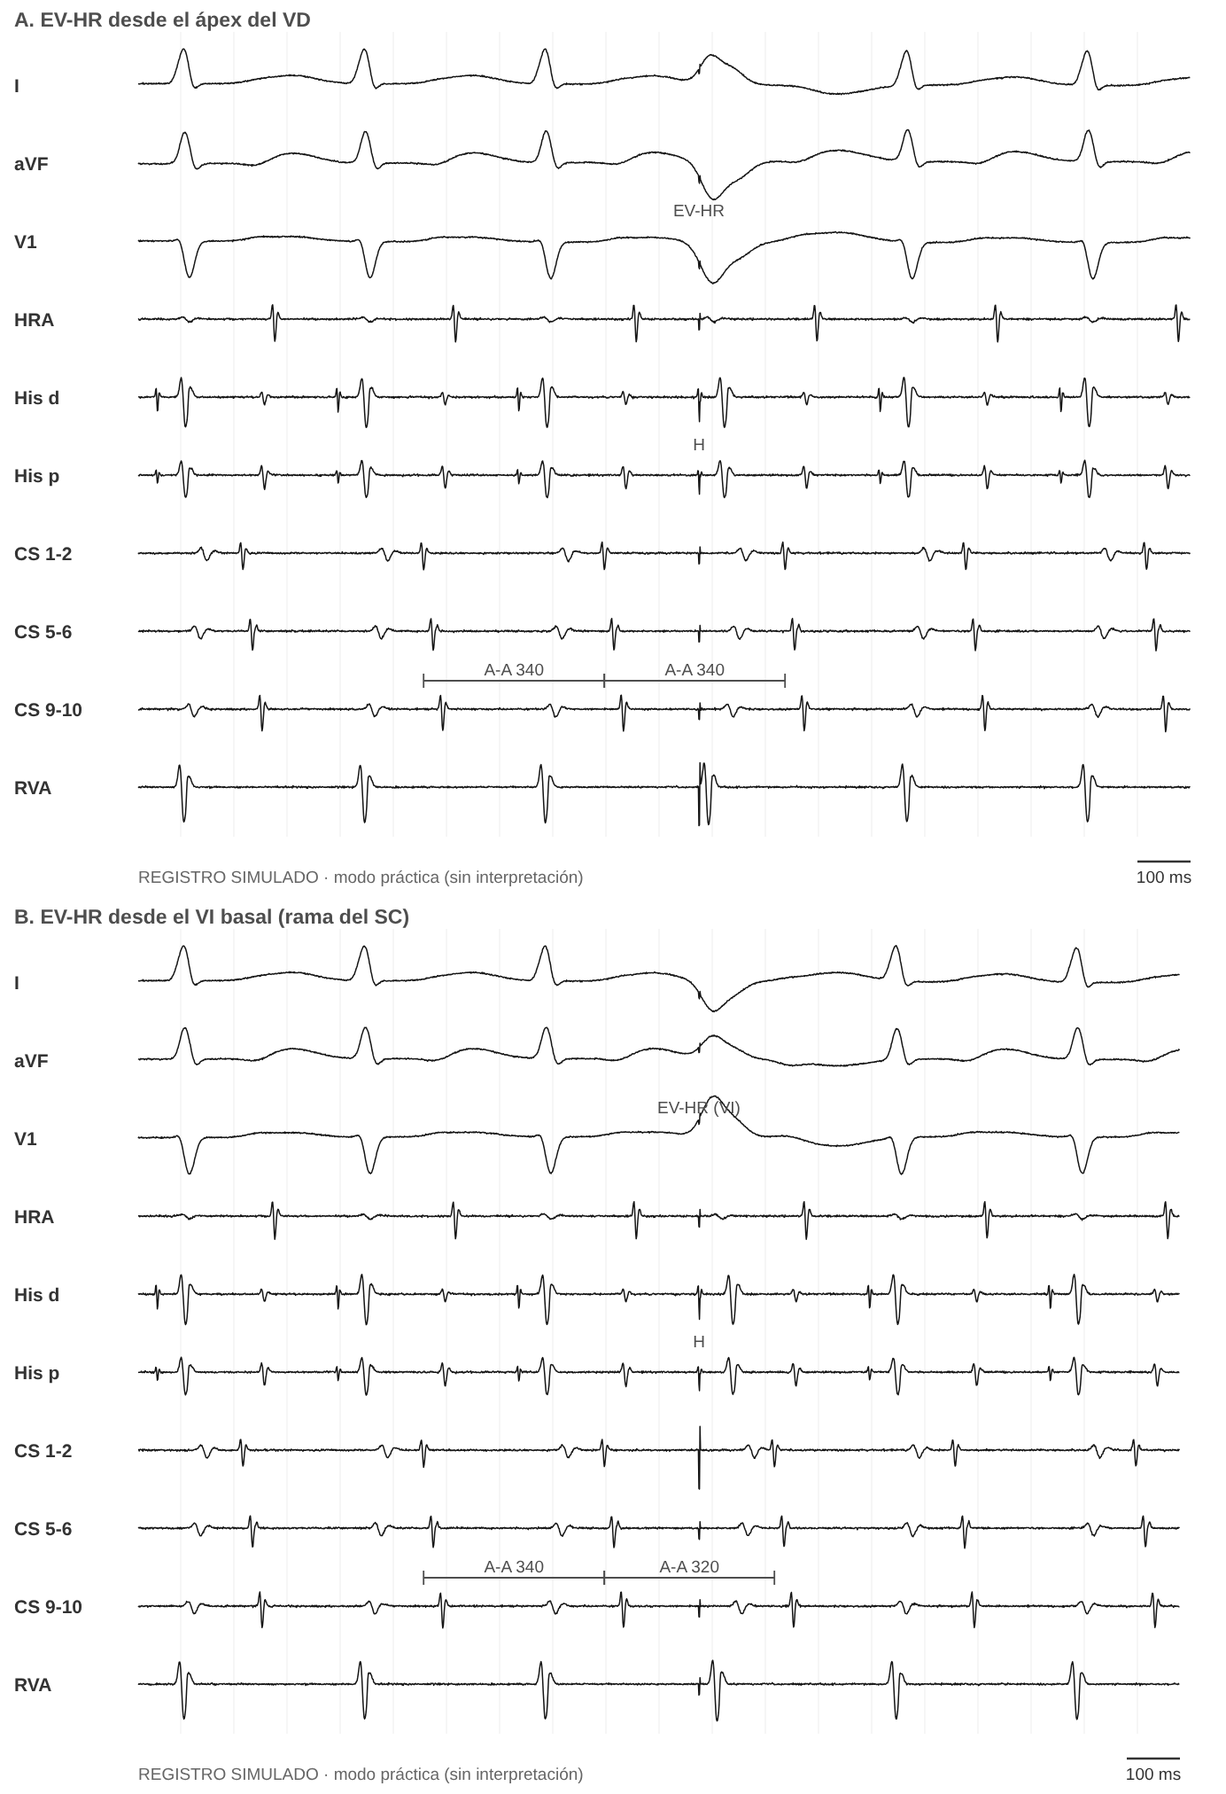
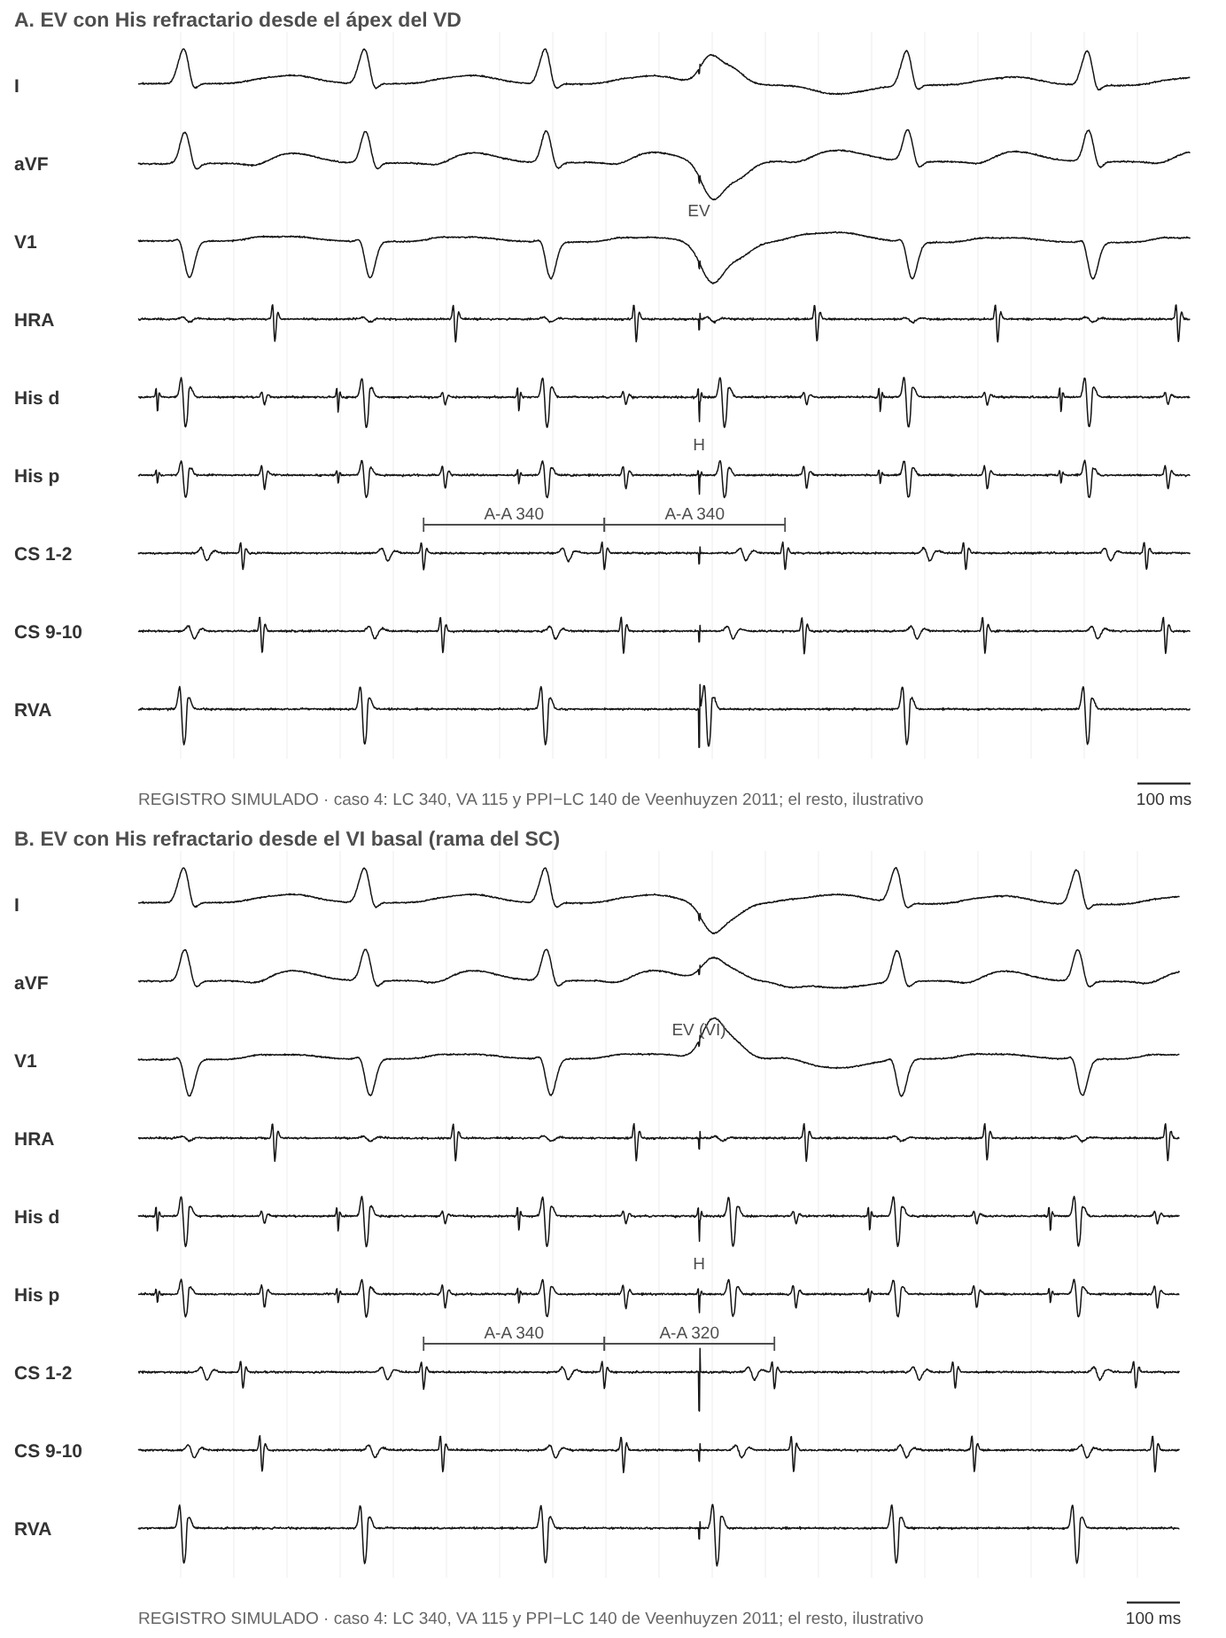
Caso 4 en el formato nuevo: todas las maniobras simuladas, valores durante el análisis y devolución paso a paso
Desde el ápex del VD: PPI−LC 140 y cPPI−LC 120 (Veenhuyzen 2011); el SA−VA pasa a 120
para ser coherente con esos valores. APPV se declara al inicio del script
(se usaba antes de inicializarse al abrir la revisión por el enlace).

Claude-Session: https://claude.ai/code/session_01Pw5rjt62KK5LeJZoEyFiaM

diff --git a/index.html b/index.html
@@ -305,6 +305,7 @@ dialog::backdrop{background:rgba(0,0,0,.45)}
 <dialog id="dlg"><div class="dlg"><div class="dlgh"><h3 id="dlgT"></h3><button class="btn" id="dlgX">Cerrar</button></div><div id="dlgB"></div></div></dialog>
 
 <script>
+const APPV = 150;   // igual al número de CACHE_VERSION de sw.js
 // ===============================================================================================================
 // Referencias. "propia" = artículo del material base; las demás se citan a través de esas revisiones.
 // ===============================================================================================================
@@ -1305,16 +1306,19 @@ const PCASOS = [
       pre: { v: 'Estimulación ventricular en sinusal a 500 y 400 ms.', r: 'SA 140 a 500 y 190 a 400 (decremental), concéntrica: conducción VA por el nodo, sin vía.', u: 'util', img: 'figs/sim/prac/p3_pre.png' } },
     dx: ['ta'], ex: 'La respuesta A-A-V verdadera, la secuencia auricular distinta durante la estimulación ventricular y la persistencia con bloqueo AV por adenosina indican TA. La variación del VA de retorno desde varios sitios (> 14 ms) también la apoya.', refs: ['knight99', 'knight00', 'maruyama07'] },
   { id: 'c4', t: 'TSV con activación excéntrica', p: 'Adolescente de 16 años con TSV. ECG basal sin preexcitación.',
-    ecg: 'figs/sim/casos/c4_ecg.jpg', ecgReal: true, basal: 'figs/sim/casos/c4_basal.png', ind: 'figs/sim/casos/c4_ind.png',
-    h: ['TSV de QRS angosto, LC 340 ms, relación 1:1', 'VA 115 ms; A más precoz en el SC distal (excéntrica)', 'Con bloqueo de rama izquierda funcional, el VA se alarga 35 ms y la LC 30 ms'],
-    m: { vop: { r: 'Respuesta A-V. Desde el ápex no hay fusión.', u: 'util' },
-      medidas: { r: 'Desde el ápex: PPI−LC 140 ms, cPPI−LC 120 ms, SA−VA 75 ms. Valores "límite" por la distancia a la vía.', u: 'trampa' },
-      vopvi: { r: 'Desde el VI basal (rama del SC): QRS de fusión e His ortodrómico; PPI−LC 90, cPPI−LC 30, SA−VA −20 ms.', u: 'clave', img: 'figs/sim/prac/veen11_fusion.png' },
-      ehr: { r: 'Desde el ápex del VD no modifica la A; desde el VI basal la adelanta 20 ms.', u: 'clave', img: 'figs/sim/prac/p4_ehr.png' },
-      parahis: { r: 'Respuesta nodal: la vía está lejos del sitio de estimulación.', u: 'trampa' },
-      pre: { r: 'Conducción VA excéntrica, no decremental, más precoz en el SC distal.', u: 'clave', img: 'figs/sim/prac/p4_pre.png' },
-      ado: { r: 'La TSV termina con una A.' }, aop: { r: 'VA linking presente.' } },
-    dx: ['trav_l'], ex: 'La activación excéntrica y el efecto Coumel (VA que aumenta > 20–30 ms con bloqueo de rama homolateral) ya apuntan a una vía libre izquierda. Desde el ápex del VD los valores salen "límite"; desde el VI basal aparecen la fusión y el His ortodrómico.', refs: ['veen11', 'knight00', 'veen12'] },
+    ecg: 'figs/sim/casos/c4_ecg.jpg', ecgReal: true, basal: 'figs/sim/casos/c4_basal.png', ind: 'figs/sim/casos/c4_ind.png', indt: 'Extraestímulo auricular S1-S2 600-280',
+    h: ['TSV de QRS angosto, LC 340 ms, relación AV 1:1', 'Protocolo: extraestímulo auricular desde la AD alta, S1-S2 600-280'],
+    hk: ['Activación auricular excéntrica, con la A más precoz en el SC 1-2 y VA 115 ms (> 70): excluye la TRNAV típica y apunta a una vía lateral izquierda (o a una TA izquierda).', 'Al inicio, con BRI funcional, el VA se alarga 35 ms (150 vs 115) y la LC 30 ms (370 vs 340): efecto Coumel. La rama bloqueada forma parte del circuito: TRAV por vía libre izquierda.'],
+    m: { vop: { v: 'Estimulando el ápex del VD a 310 ms las A se aceleran a 310 con la misma secuencia excéntrica. Al cortar, el primer electrograma que sigue a la última A es un V (secuencia A-V).', r: 'Respuesta A-V: excluye la TA izquierda que plantea la secuencia excéntrica.', u: 'clave', img: 'figs/sim/prac/p4_vop.png' },
+      pre: { v: 'Estimulación ventricular en sinusal a 500 y 400 ms.', r: 'SA 120 a las dos frecuencias (no decremental), con la A más precoz en el SC 1-2: conducción VA por una vía lateral izquierda.', u: 'clave', img: 'figs/sim/prac/p4_pre.png' },
+      diff: { v: 'Encarrilando a 310 ms: SA 235 desde el ápex y SA 225 desde la base del VD (VA 115). ΔVA (base − ápex) −10 ms.', r: 'ΔVA ≤ 20 ms: TRAV. Aunque los dos sitios están lejos de la vía, la diferencia entre ellos no depende de esa distancia.', u: 'clave', img: 'figs/sim/prac/p4_diff.png' },
+      ehr: { v: 'EV con el His refractario desde el ápex del VD: la A siguiente no cambia (A-A 340). Desde el VI basal (rama del SC): la A siguiente se adelanta 20 ms (A-A 320) con la misma secuencia y la taquicardia sigue.', r: 'Desde el ápex la EV no llega a tiempo a una vía alejada; desde el VI basal, cerca de la vía, adelanta la A con el His refractario: demuestra la vía y que participa en el circuito.', u: 'clave', img: 'figs/sim/prac/p4_ehr.png' },
+      medidas: { v: 'PPI 480 ms con LC 340 (PPI−LC 140). AH 180 en la TSV y 200 en el primer latido de retorno (cPPI−LC 120). SA 235 ms con VA 115 (SA−VA 120).', r: 'Engañosa: desde el ápex del VD los tres valores caen en rango de TRNAV porque la vía lateral izquierda está lejos del sitio de estimulación (el frente tarda en llegar al circuito). Estos cortes se validaron sobre todo con vías septales.', u: 'trampa', img: 'figs/sim/prac/p4_medidas.png' },
+      parahis: { v: 'En sinusal, con captura del His: SA 85 y QRS 95. Solo V: SA 135 y QRS 150. Misma secuencia auricular, concéntrica.', r: 'Engañosa: respuesta nodal porque la vía está lejos del sitio de estimulación; la para-Hisiana solo descarta vías septales.', u: 'trampa', img: 'figs/sim/prac/p4_parahis.png' },
+      aop: { v: 'Estimulando la AD alta a 310 ms los V se aceleran a 310 (V-V 310; en la TSV, 340). Al cortar, el VA del primer latido es 115 ms, igual al de la TSV.', r: 'VA linking: la A de retorno depende del V; excluye la TA.', u: 'util', img: 'figs/sim/prac/p4_aop.png' },
+      ado: { v: 'La taquicardia termina: el último latido es una A que no conduce al V.', r: 'Terminación con una A: excluye la TA, pero no localiza la vía.', u: 'util', img: 'figs/sim/prac/p4_ado.png' },
+      eha: { v: 'EA desde el ostium del SC con el His refractario: el His siguiente sale a su tiempo (H-H 340).', r: 'No modifica el His: esperable en la TRAV. Sirve para separar la TRNAV de la taquicardia de la unión, no para este diferencial.', u: 'util', img: 'figs/sim/prac/p4_eha.png' } },
+    dx: ['trav_l'], ex: 'La activación excéntrica (SC 1-2) y el efecto Coumel (el VA se alarga 35 ms con BRI funcional) apuntan a una vía libre izquierda; la respuesta A-V, el VA linking y la terminación con una A excluyen la TA. Desde el ápex del VD el PPI−LC, el cPPI−LC y el SA−VA caen en rango de TRNAV por la distancia a la vía, y la para-Hisiana da nodal: son engañosas. El encarrilamiento diferencial (ΔVA −10) y la EV con His refractario desde el VI basal, que adelanta la A 20 ms, confirman la TRAV.', refs: ['veen11', 'knight00', 'veen12'] },
   { id: 'c5', t: 'TSV de RP largo con "A-A-V"', p: 'Mujer de 22 años con TSV de RP largo.',
     ecg: 'figs/sim/casos/c5_ecg.jpg', ecgReal: true, basal: 'figs/sim/casos/c5_basal.png', ind: 'figs/sim/casos/c5_ind.png',
     h: ['TSV de QRS angosto, LC 460 ms, relación 1:1', 'VA 300 ms (RP largo)', 'Activación concéntrica, más precoz en el ostium del SC'],
@@ -2037,7 +2041,7 @@ $('#goEnr').onclick = () => locView('enr'); $('#goObl').onclick = () => openFich
 document.querySelectorAll('[data-back]').forEach(b => b.onclick = () => locView('hub'));
 try { const t = location.hash === '#localizar' ? 'loc' : localStorage.getItem('mef_tab'); if (t) tab(t); } catch (e) {}
 checkReview();
-const APPV = 149;   // igual al número de CACHE_VERSION de sw.js
+
 if ('serviceWorker' in navigator && location.protocol === 'https:') {
   navigator.serviceWorker.register('sw.js').catch(() => {});
 }

diff --git a/sw.js b/sw.js
@@ -1,6 +1,6 @@
 // Permite instalar la app y abrirla sin conexión. Primero la red (siempre lo último publicado); si no hay, la copia.
 // Si cambiás un archivo, subí CACHE_VERSION.
-const CACHE_VERSION = 'mef-v149';
+const CACHE_VERSION = 'mef-v150';
 const ARCHIVOS = ['./', './index.html', './manifest.json', './iconos/icon-192.png', './iconos/icon-512.png'];
 self.addEventListener('install', e => e.waitUntil(caches.open(CACHE_VERSION).then(c => c.addAll(ARCHIVOS)).then(() => self.skipWaiting())));
 self.addEventListener('activate', e => e.waitUntil(caches.keys().then(ks => Promise.all(ks.filter(k => k !== CACHE_VERSION).map(k => caches.delete(k)))).then(() => self.clients.claim())));

diff --git a/herramientas/simulador/cases6.py b/herramientas/simulador/cases6.py
@@ -373,6 +373,122 @@ S['p3_pre'] = dict(win=(-80, 2150), pxms=0.30, title='Estimulación ventricular 
     spikes=sp, beats=[(s, 'pa') for s in sp], atr=[(s + a, 'conc_his', -1) for s, a in zip(sp, sas)], h_retro=[s + a - 60 for s, a in zip(sp, sas)],
     cal=[(sp[0], sp[1], 'RVA', 'S-S 500'), (sp[1], sp[1] + 142, 'HRA', 'SA 140'), (sp[2], sp[3], 'RVA', 'S-S 400'), (sp[3], sp[3] + 192, 'HRA', 'SA 190')])
 
+# =====================================================================================================
+# Caso 4 (TRAV por vía lateral izquierda; LC 340 y VA 115 de Veenhuyzen 2011, A más precoz en el SC 1-2, AH 180 en la TSV).
+# Desde el ápex del VD: PPI−LC 140 y cPPI−LC 120 (AH +20) como Veenhuyzen; SA−VA 120 resulta de esos valores.
+SRC4 = 'caso 4: LC 340, VA 115 y PPI−LC 140 de Veenhuyzen 2011; el resto, ilustrativo'
+LC4, VA4, SC4, SA4, AH4, HV4 = 340, 115, 310, 235, 180, 45
+PPI4 = SA4 + AH4 + 20 + HV4          # 480: el primer retorno conduce con AH 200
+
+
+def vop4(title, med):
+    svt = [0, LC4, 2 * LC4]
+    sp = [svt[-1] + 260 + SC4 * k for k in range(6)]
+    A = [v + VA4 for v in svt] + [s + SA4 for s in sp]
+    ret = sp[-1] + PPI4
+    after = [ret, ret + LC4]
+    cal = [(svt[0], svt[1], 'RVA', f'LC {LC4}'), (svt[1], svt[1] + VA4 + 2, 'CS 1-2', f'VA {VA4}'),
+           (sp[-2], sp[-1], 'RVA', f'S-S {SC4}'), (A[-3] + 2, A[-2] + 2, 'CS 1-2', f'A-A {SC4}'),
+           (sp[-1], A[-1] + 2, 'CS 1-2', f'SA {SA4}'), (sp[-1], ret + 2, 'RVA', f'PPI {PPI4}')]
+    marks = []
+    if med:
+        cal = [c for c in cal if not c[3].startswith(('S-S', 'A-A'))]
+        cal += [(svt[1] - HV4 - AH4, svt[1] - HV4, 'His d', f'AH {AH4}'), (A[-1] + 2, ret - HV4, 'His d', f'AH {AH4 + 20}')]
+        marks = [(sp[-1] + 260, 'I', f'SA − VA = {SA4} − {VA4} = {SA4 - VA4} ms'),
+                 (sp[-1] + 260, 'aVF', f'PPI − LC = {PPI4} − {LC4} = {PPI4 - LC4} ms'),
+                 (sp[-1] + 260, 'V1', f'cPPI − LC = {PPI4 - LC4} − ({AH4 + 20} − {AH4}) = {PPI4 - LC4 - 20} ms')]
+    return dict(win=(-80, after[-1] + 220), pxms=0.25, title=title, channels=CH6, src=SRC4,
+        beats=[(v, 'n') for v in svt + after] + [(s, 'pa') for s in sp], spikes=sp,
+        atr=[(a, 'left', -1) for a in A + [v + VA4 for v in after]],
+        h_ante=[v - HV4 for v in svt + after], h_retro=[s + 70 for s in sp], cal=cal, marks=marks)
+
+
+S['p4_vop'] = vop4('Sobreestimulación ventricular desde el ápex del VD a 310 ms', False)
+S['p4_medidas'] = vop4('Medidas sobre la sobreestimulación ventricular (ápex del VD a 310 ms): PPI, SA y AH', True)
+
+
+def diff4(sa, typ, title):
+    svt = [0, LC4]
+    sp = [600 + SC4 * k for k in range(6)]
+    A = [v + VA4 for v in svt] + [s + sa for s in sp]
+    ret = sp[-1] + PPI4 + (sa - SA4)
+    return dict(win=(-80, ret + LC4 + 220), pxms=0.22, channels=CH6, title=title, spikes=sp, pace_ch='RVA', src=SRC4,
+        beats=[(v, 'n') for v in svt] + [(s, typ) for s in sp] + [(ret, 'n'), (ret + LC4, 'n')],
+        atr=[(a, 'left', -1) for a in A] + [(ret + VA4, 'left', -1), (ret + LC4 + VA4, 'left', -1)],
+        h_ante=[v - HV4 for v in svt] + [ret - HV4, ret + LC4 - HV4], h_retro=[s + 70 + (sa - SA4) for s in sp],
+        cal=[(svt[1], svt[1] + VA4 + 2, 'CS 1-2', f'VA {VA4}'), (sp[-1], A[-1] + 2, 'CS 1-2', f'SA {sa}'), (svt[0], svt[1], 'RVA', f'LC {LC4}')])
+
+
+S['p4_diff_a'] = diff4(235, 'pa', 'A. Encarrilamiento desde el ápex del VD (310 ms)')
+S['p4_diff_b'] = diff4(225, 'pb', 'B. Encarrilamiento desde la base del VD (310 ms)')
+
+
+def ehr4(d, typ, pace, title, mark):
+    k = 3
+    vs = [i * LC4 for i in range(k)]
+    h_exp = k * LC4 - HV4
+    A = [v + VA4 for v in vs] + [k * LC4 + VA4 - d]
+    nxt = A[-1] + (LC4 - VA4) if d else k * LC4 + LC4
+    after = [nxt, nxt + LC4]
+    A += [v + VA4 for v in after]
+    return dict(win=(-80, after[-1] + 200), pxms=0.30, title=title, channels=CH6, src=SRC4,
+        spikes=[h_exp], pace_ch=pace, beats=[(v, 'n') for v in vs] + [(h_exp, typ)] + [(v, 'n') for v in after],
+        atr=[(a, 'left', -1) for a in A], h_ante=[v - HV4 for v in vs] + [h_exp] + [v - HV4 for v in after],
+        cal=[(A[k - 2] + 2, A[k - 1] + 2, 'CS 1-2', f'A-A {LC4}'), (A[k - 1] + 2, A[k] + 2, 'CS 1-2', f'A-A {LC4 - d}')],
+        marks=[(h_exp, 'V1', mark), (h_exp, 'His p', 'H')])
+
+
+S['p4_ehr_a'] = ehr4(0, 'pa', 'RVA', 'A. EV con His refractario desde el ápex del VD', 'EV')
+S['p4_ehr_b'] = ehr4(20, 'lv', 'CS 1-2', 'B. EV con His refractario desde el VI basal (rama del SC)', 'EV (VI)')
+
+# Estudio basal: estimulación del VD a 500 y 400: SA 120 en los dos (no decremental), excéntrica (SC 1-2 primero).
+sp = [0, 500, 1000, 1400, 1800]
+S['p4_pre'] = dict(win=(-80, 2150), pxms=0.30, title='Estimulación ventricular en ritmo sinusal: 500 y 400 ms', channels=CH6, src=SRC4,
+    spikes=sp, beats=[(s, 'pa') for s in sp], atr=[(s + 120, 'left', -1) for s in sp], h_retro=[s + 70 for s in sp],
+    cal=[(sp[0], sp[1], 'RVA', 'S-S 500'), (sp[1], sp[1] + 122, 'CS 1-2', 'SA 120'), (sp[2], sp[3], 'RVA', 'S-S 400'), (sp[3], sp[3] + 122, 'CS 1-2', 'SA 120')])
+
+# Para-Hisiana en sinusal: SA 85 → 135 en el His, secuencia concéntrica en los dos (la vía está lejos del sitio).
+sp = [0, 650, 1300, 1950]
+cap = [True, False, True, False]
+S['p4_parahis'] = dict(win=(-80, 2300), pxms=0.32, title='Estimulación para-Hisiana en ritmo sinusal', channels=CH6, src=SRC4,
+    spikes=sp, pace_ch='His p', beats=[(s + HV4 if c else s, 'n' if c else 'pa') for s, c in zip(sp, cap)],
+    atr=[(s + (85 if c else 135), 'conc_his', -1) for s, c in zip(sp, cap)],
+    cal=[(sp[0], sp[0] + 87, 'His d', 'SA 85'), (sp[1], sp[1] + 137, 'His d', 'SA 135'), (sp[2] + HV4, sp[2] + HV4 + 95, 'RVA', 'QRS 95'), (sp[3], sp[3] + 150, 'RVA', 'QRS 150')],
+    marks=[(sp[0] + 30, 'V1', 'His + V'), (sp[1] + 40, 'V1', 'solo V')])
+
+# Sobreestimulación auricular desde la AD alta a 310: V-V 310; al cortar, VA 115 como en la TSV.
+AHs4 = 200
+vs = [0, LC4, 2 * LC4]
+A = [v + VA4 for v in vs]
+sp = [A[-1] + 220 + 310 * k for k in range(6)]
+pv = [s + 28 + AHs4 + HV4 for s in sp]
+vs2 = [pv[-1] + LC4, pv[-1] + 2 * LC4]
+S['p4_aop'] = dict(win=(-80, vs2[-1] + 220), pxms=0.22, title='Sobreestimulación auricular desde la AD alta a 310 ms', channels=CH6, src=SRC4,
+    beats=[(v, 'n') for v in vs + pv + vs2], aspikes=sp, apace_ch='HRA',
+    atr=[(a, 'left', -1) for a in A] + [(s + 5, 'sinus', 1) for s in sp] + [(v + VA4, 'left', -1) for v in [pv[-1]] + vs2],
+    h_ante=[v - HV4 for v in vs + pv + vs2],
+    cal=[(vs[1], vs[1] + VA4 + 2, 'CS 1-2', f'VA {VA4}'), (vs[0], vs[1], 'RVA', f'V-V {LC4}'), (sp[-2], sp[-1], 'HRA', 'S-S 310'),
+         (pv[-2], pv[-1], 'RVA', 'V-V 310'), (pv[-1], pv[-1] + VA4 + 2, 'CS 1-2', f'VA {VA4}')])
+
+# Adenosina: termina con una A.
+vs = [0, LC4, 2 * LC4, 3 * LC4]
+A = [v + VA4 for v in vs]
+S['p4_ado'] = dict(win=(-80, A[-1] + 900), pxms=0.25, title='Adenosina IV durante la taquicardia', channels=CH6, src=SRC4,
+    beats=[(v, 'n') for v in vs], atr=[(a, 'left', -1) for a in A], h_ante=[v - HV4 for v in vs],
+    cal=[(vs[1], vs[2], 'RVA', f'LC {LC4}'), (vs[3], A[3] + 2, 'CS 1-2', f'VA {VA4}')],
+    marks=[(A[3] + 60, 'aVF', 'última: A sin V')])
+
+# EA con His refractario desde el ostium del SC: el His siguiente sale a su tiempo.
+hs = [i * LC4 - HV4 for i in range(6)]
+apb = hs[3] + 10
+vs = [h + HV4 for h in hs]
+A = [v + VA4 for k2, v in enumerate(vs) if k2 != 3]
+S['p4_eha'] = dict(win=(-100, vs[-1] + 250), pxms=0.25, title='EA con His refractario desde el ostium del SC', channels=CH6, src=SRC4,
+    beats=[(x, 'n') for x in vs], aspikes=[apb], apace_ch='CS 9-10',
+    atr=[(a, 'left', -1) for a in A] + [(apb + 4, 'conc_cs', 1)], h_ante=hs,
+    cal=[(hs[2], hs[3], 'His d', f'H-H {LC4}'), (hs[3], hs[4], 'His d', f'H-H {LC4}')],
+    marks=[(apb, 'V1', 'EA')])
+
 if __name__ == '__main__':
     for k in (sys.argv[3:] or S):
         render(S[k], f'{OUT}/{k}.svg')

diff --git a/herramientas/simulador/cases4.py b/herramientas/simulador/cases4.py
@@ -41,14 +41,14 @@ S['p6_ehr'] = ehr(300, 190, 'conc_cs', -20, src='caso 6 (LC 300 como el ECG real
 S['p9_ehr'] = ehr(310, 180, 'conc_cs', 20, src='caso 9 (LC 310 como el ECG real, VA 180); EV-HR que adelanta la A 20 ms', lab='A-A 290 (−20)')
 S['p9_ehr']['pxms'] = 0.25
 # Caso 4: TRAV lateral izquierda, LC 340, VA 115; desde el ápex no cambia la A, desde el VI basal la adelanta 20 ms.
-S['p4_ehr_a'] = ehr(340, 115, 'left', 0, title='A. EV-HR desde el ápex del VD: la A no cambia', src='caso 4 (Veenhuyzen 2011: LC 340, VA 115); adelanto de 20 ms del caso',
+S['p4old_ehr_a'] = ehr(340, 115, 'left', 0, title='A. EV-HR desde el ápex del VD: la A no cambia', src='caso 4 (Veenhuyzen 2011: LC 340, VA 115); adelanto de 20 ms del caso',
                     lab='A-A 340')
-S['p4_ehr_b'] = ehr(340, 115, 'left', 20, typ='lv', pace='CS 1-2', title='B. EV-HR desde el VI basal (rama del SC): adelanta la A 20 ms',
+S['p4old_ehr_b'] = ehr(340, 115, 'left', 20, typ='lv', pace='CS 1-2', title='B. EV-HR desde el VI basal (rama del SC): adelanta la A 20 ms',
                     src='caso 4 (Veenhuyzen 2011: LC 340, VA 115); adelanto de 20 ms del caso', lab='A-A 320 (−20)', mark='EV-HR (VI)')
 
 # Caso 4: estudio basal: estimulación ventricular con conducción VA excéntrica y no decremental (SA igual a 500 y 400).
 sp = [0, 500, 1000, 1400, 1800]
-S['p4_pre'] = dict(win=(-80, 2150), pxms=0.30, channels=CH, src='caso 4: conducción VA excéntrica, no decremental (SA 120 a 500 y a 400 ms, ilustrativo)',
+S['p4old_pre'] = dict(win=(-80, 2150), pxms=0.30, channels=CH, src='caso 4: conducción VA excéntrica, no decremental (SA 120 a 500 y a 400 ms, ilustrativo)',
     spikes=sp, beats=[(s, 'pa') for s in sp], atr=[(s + 120, 'left', -1) for s in sp],
     cal=[(sp[1], sp[1] + 122, 'CS 1-2', 'SA 120'), (sp[3], sp[3] + 122, 'CS 1-2', 'SA 120'), (sp[0], sp[1], 'RVA', '500'), (sp[2], sp[3], 'RVA', '400')],
     marks=[(sp[1] + 120, 'CS 9-10', 'A más precoz en el SC distal')])

diff --git a/herramientas/simulador/practica.py b/herramientas/simulador/practica.py
@@ -12,10 +12,10 @@ from simlib import render
 S = {**cases.S, **cases2.S, **cases3.S, **cases4.S}
 
 USADAS = ['arias10', 'burri12', 'ho15', 'knight99', 'michaud01', 'p10_ehr', 'p10_vop', 'p11_adec', 'p11_anillo', 'p11_eapre',
-          'p12_eapre', 'p12_pre', 'p13_abll', 'p2_ehr', 'p3_ado', 'p3_vop', 'p4_ehr_a', 'p4_ehr_b', 'p4_pre', 'p5_ehr', 'p6_aop',
+          'p12_eapre', 'p12_pre', 'p13_abll', 'p2_ehr', 'p3_ado', 'p3_vop', 'p4old_ehr_a', 'p4old_ehr_b', 'p4old_pre', 'p5_ehr', 'p6_aop',
           'p6_ehr', 'p8_verap_a', 'p8_verap_b', 'p9_diff_a', 'p9_diff_b', 'p9_ehr', 'tvf_post', 'veen11_fusion', 'veen11_pseudo', 'veen12_jt_a', 'veen12_jt_b']
 
-TITULOS = {'veen12_jt_a': 'A. EA con His refractario (ostium del SC)', 'veen12_jt_b': 'B. EA precoz (AD alta)','veen11_pseudo': 'Encarrilamiento desde el ápex del VD','p4_ehr_a': 'A. EV-HR desde el ápex del VD', 'p4_ehr_b': 'B. EV-HR desde el VI basal (rama del SC)',
+TITULOS = {'veen12_jt_a': 'A. EA con His refractario (ostium del SC)', 'veen12_jt_b': 'B. EA precoz (AD alta)','veen11_pseudo': 'Encarrilamiento desde el ápex del VD','p4old_ehr_a': 'A. EV-HR desde el ápex del VD', 'p4old_ehr_b': 'B. EV-HR desde el VI basal (rama del SC)',
            'p8_verap_a': 'A. Antes del verapamilo', 'p8_verap_b': 'B. Con verapamilo',
            'p9_diff_a': 'A. Desde el ápex del VD', 'p9_diff_b': 'B. Desde la base del VD'}
 
@@ -25,7 +25,7 @@ RENOMBRAR = {'LC TSV 430': 'LC 430', 'VA': 'VA 120', 'SA': 'SA 160', 'PPI': 'PPI
 # Calibres agregados: la LC (o el A-A) de la TSV, para que se pueda calcular
 EXTRA = {'p10_vop': [(0, 390, 'RVA', 'LC 390')], 'p10_ehr': [(0, 390, 'RVA', 'LC 390')],
          'p11_eapre': [], 'p12_eapre': []}
-EHR = ['p2_ehr', 'p4_ehr_a', 'p4_ehr_b', 'p5_ehr', 'p6_ehr', 'p9_ehr']   # se agrega el A-A de la TSV
+EHR = ['p2_ehr', 'p4old_ehr_a', 'p4old_ehr_b', 'p5_ehr', 'p6_ehr', 'p9_ehr']   # se agrega el A-A de la TSV
 
 
 def limpiar(k, sc):
